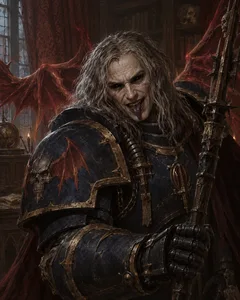
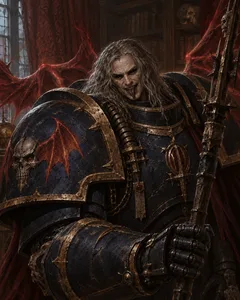
Portraits: Astartes proportion corrections (Senefuru, Sadoth Xarbia, Comus Nocturnus, Teke); refresh QA screenshots

diff --git a/docs/portraits/all-chatgpt.md b/docs/portraits/all-chatgpt.md
@@ -48,7 +48,7 @@ These scenes and unrecorded physical details are **artistic interpretations, not
 | Carl Thonius | retinue | [WebP](../../public/portraits/carl-thonius.webp) | [PNG](sources/carl-thonius.chatgpt-background-v2.png) | [Prompt](carl-thonius-chatgpt-background-v2.prompt.txt) |
 | Cherubael | daemon | [WebP](../../public/portraits/cherubael.webp) | [PNG](sources/cherubael.chatgpt-background-v2.png) | [Prompt](cherubael-chatgpt-background-v2.prompt.txt) |
 | Commodus Voke | inquisition | [WebP](../../public/portraits/commodus-voke.webp) | [PNG](sources/commodus-voke.chatgpt.png) | [Prompt](commodus-voke-chatgpt.prompt.txt) |
-| Comus Nocturnus | rogue | [WebP](../../public/portraits/comus-nocturnus.webp) | [PNG](sources/comus-nocturnus.chatgpt.png) | [Prompt](comus-nocturnus-chatgpt.prompt.txt) |
+| Comus Nocturnus | rogue | [WebP](../../public/portraits/comus-nocturnus.webp) | [PNG](sources/comus-nocturnus.chatgpt-v2.png) | [Prompt](comus-nocturnus-chatgpt-v2.prompt.txt) |
 | Connort Timurlin | heretic | [WebP](../../public/portraits/connort-timurlin.webp) | [PNG](sources/connort-timurlin.chatgpt.png) | [Prompt](connort-timurlin-chatgpt.prompt.txt) |
 | Constant Shadrake | civilian | [WebP](../../public/portraits/constant-shadrake.webp) | [PNG](sources/constant-shadrake.chatgpt.png) | [Prompt](constant-shadrake-chatgpt.prompt.txt) |
 | Crezia Berschilde | civilian | [WebP](../../public/portraits/crezia-berschilde.webp) | [PNG](sources/crezia-berschilde.chatgpt.png) | [Prompt](crezia-berschilde-chatgpt.prompt.txt) |
@@ -114,12 +114,12 @@ These scenes and unrecorded physical details are **artistic interpretations, not
 | Quixos | heretic | [WebP](../../public/portraits/quixos.webp) | [PNG](sources/quixos.chatgpt.png) | [Prompt](quixos-chatgpt.prompt.txt) |
 | Raum Grumman | inquisition | [WebP](../../public/portraits/raum-grumman.webp) | [PNG](sources/raum-grumman.chatgpt.png) | [Prompt](raum-grumman-chatgpt.prompt.txt) |
 | Renner Lightburn | civilian | [WebP](../../public/portraits/renner-lightburn.webp) | [PNG](sources/renner-lightburn.chatgpt.png) | [Prompt](renner-lightburn-chatgpt.prompt.txt) |
-| Sadoth Xarbia | heretic | [WebP](../../public/portraits/sadoth-xarbia.webp) | [PNG](sources/sadoth-xarbia.chatgpt.png) | [Prompt](sadoth-xarbia-chatgpt.prompt.txt) |
+| Sadoth Xarbia | heretic | [WebP](../../public/portraits/sadoth-xarbia.webp) | [PNG](sources/sadoth-xarbia.chatgpt-v2.png) | [Prompt](sadoth-xarbia-chatgpt-v2.prompt.txt) |
 | Scarpac | heretic | [WebP](../../public/portraits/scarpac.webp) | [PNG](sources/scarpac.chatgpt.png) | [Prompt](scarpac-chatgpt.prompt.txt) |
-| Senefuru of Tizca | heretic | [WebP](../../public/portraits/senefuru-of-tizca.webp) | [PNG](sources/senefuru-of-tizca.chatgpt.png) | [Prompt](senefuru-of-tizca-chatgpt.prompt.txt) |
+| Senefuru of Tizca | heretic | [WebP](../../public/portraits/senefuru-of-tizca.webp) | [PNG](sources/senefuru-of-tizca.chatgpt-v2.png) | [Prompt](senefuru-of-tizca-chatgpt-v2.prompt.txt) |
 | Sholto Unwerth | rogue | [WebP](../../public/portraits/sholto-unwerth.webp) | [PNG](sources/sholto-unwerth.chatgpt.png) | [Prompt](sholto-unwerth-chatgpt.prompt.txt) |
 | Slyte | daemon | [WebP](../../public/portraits/slyte.webp) | [PNG](sources/slyte.chatgpt-v2.png) | [Prompt](slyte-chatgpt-v2.prompt.txt) |
-| Teke | heretic | [WebP](../../public/portraits/teke.webp) | [PNG](sources/teke.chatgpt.png) | [Prompt](teke-chatgpt.prompt.txt) |
+| Teke | heretic | [WebP](../../public/portraits/teke.webp) | [PNG](sources/teke.chatgpt-v2.png) | [Prompt](teke-chatgpt-v2.prompt.txt) |
 | Thaddeus Saur | heretic | [WebP](../../public/portraits/thaddeus-saur.webp) | [PNG](sources/thaddeus-saur.chatgpt.png) | [Prompt](thaddeus-saur-chatgpt.prompt.txt) |
 | The Brass Thief | daemon | [WebP](../../public/portraits/brass-thief.webp) | [PNG](sources/brass-thief.chatgpt.png) | [Prompt](brass-thief-chatgpt.prompt.txt) |
 | The King in Yellow | heretic | [WebP](../../public/portraits/king-in-yellow.webp) | [PNG](sources/king-in-yellow.chatgpt.png) | [Prompt](king-in-yellow-chatgpt.prompt.txt) |

diff --git a/docs/portraits/revisions-2026-10-09.md b/docs/portraits/revisions-2026-10-09.md
@@ -23,6 +23,17 @@ Aemos retains his established ancient savant identity and distinctive augmetic e
 
 Bure is identified as an Adeptus Mechanicus magos and metallurgist in the existing project research, with no physical description established. His exposed face, technical apron, compact optics and laboratory are therefore expressly **role-based artistic interpretation**, not newly discovered canonical traits. The user's request overrides the earlier prompt's deliberate face-obscuring shadow.
 
+## Astartes proportion corrections
+
+A proportion audit of all 102 portraits found four Space Marines drawn close to human scale. Each was edited to read as a 2.2–2.5 m transhuman (head small against massive shoulders, thick neck low in the gorget), with identity, costume, background and style unchanged.
+
+| Character | Correction | Selected source | Exact prompt |
+| --- | --- | --- | --- |
+| Senefuru of Tizca | Added the missing right pauldron, broader armoured torso, helm lower and smaller | [PNG](sources/senefuru-of-tizca.chatgpt-v2.png) | [Prompt](senefuru-of-tizca-chatgpt-v2.prompt.txt) |
+| Sadoth Xarbia | Smaller head, wider pauldrons, deeper gorget | [PNG](sources/sadoth-xarbia.chatgpt-v2.png) | [Prompt](sadoth-xarbia-chatgpt-v2.prompt.txt) |
+| Comus Nocturnus | Broader shoulders and trapezius, thicker neck, smaller head | [PNG](sources/comus-nocturnus.chatgpt-v2.png) | [Prompt](comus-nocturnus-chatgpt-v2.prompt.txt) |
+| Teke | Shorter, thicker neck set lower in the collar; less backward tilt | [PNG](sources/teke.chatgpt-v2.png) | [Prompt](teke-chatgpt-v2.prompt.txt) |
+
 ## Runtime deliverables
 
 Selected full images: `public/portraits/{gregor-eisenhorn,tobias-maxilla,uber-aemos,geard-bure}.webp` (800 x 1000).
